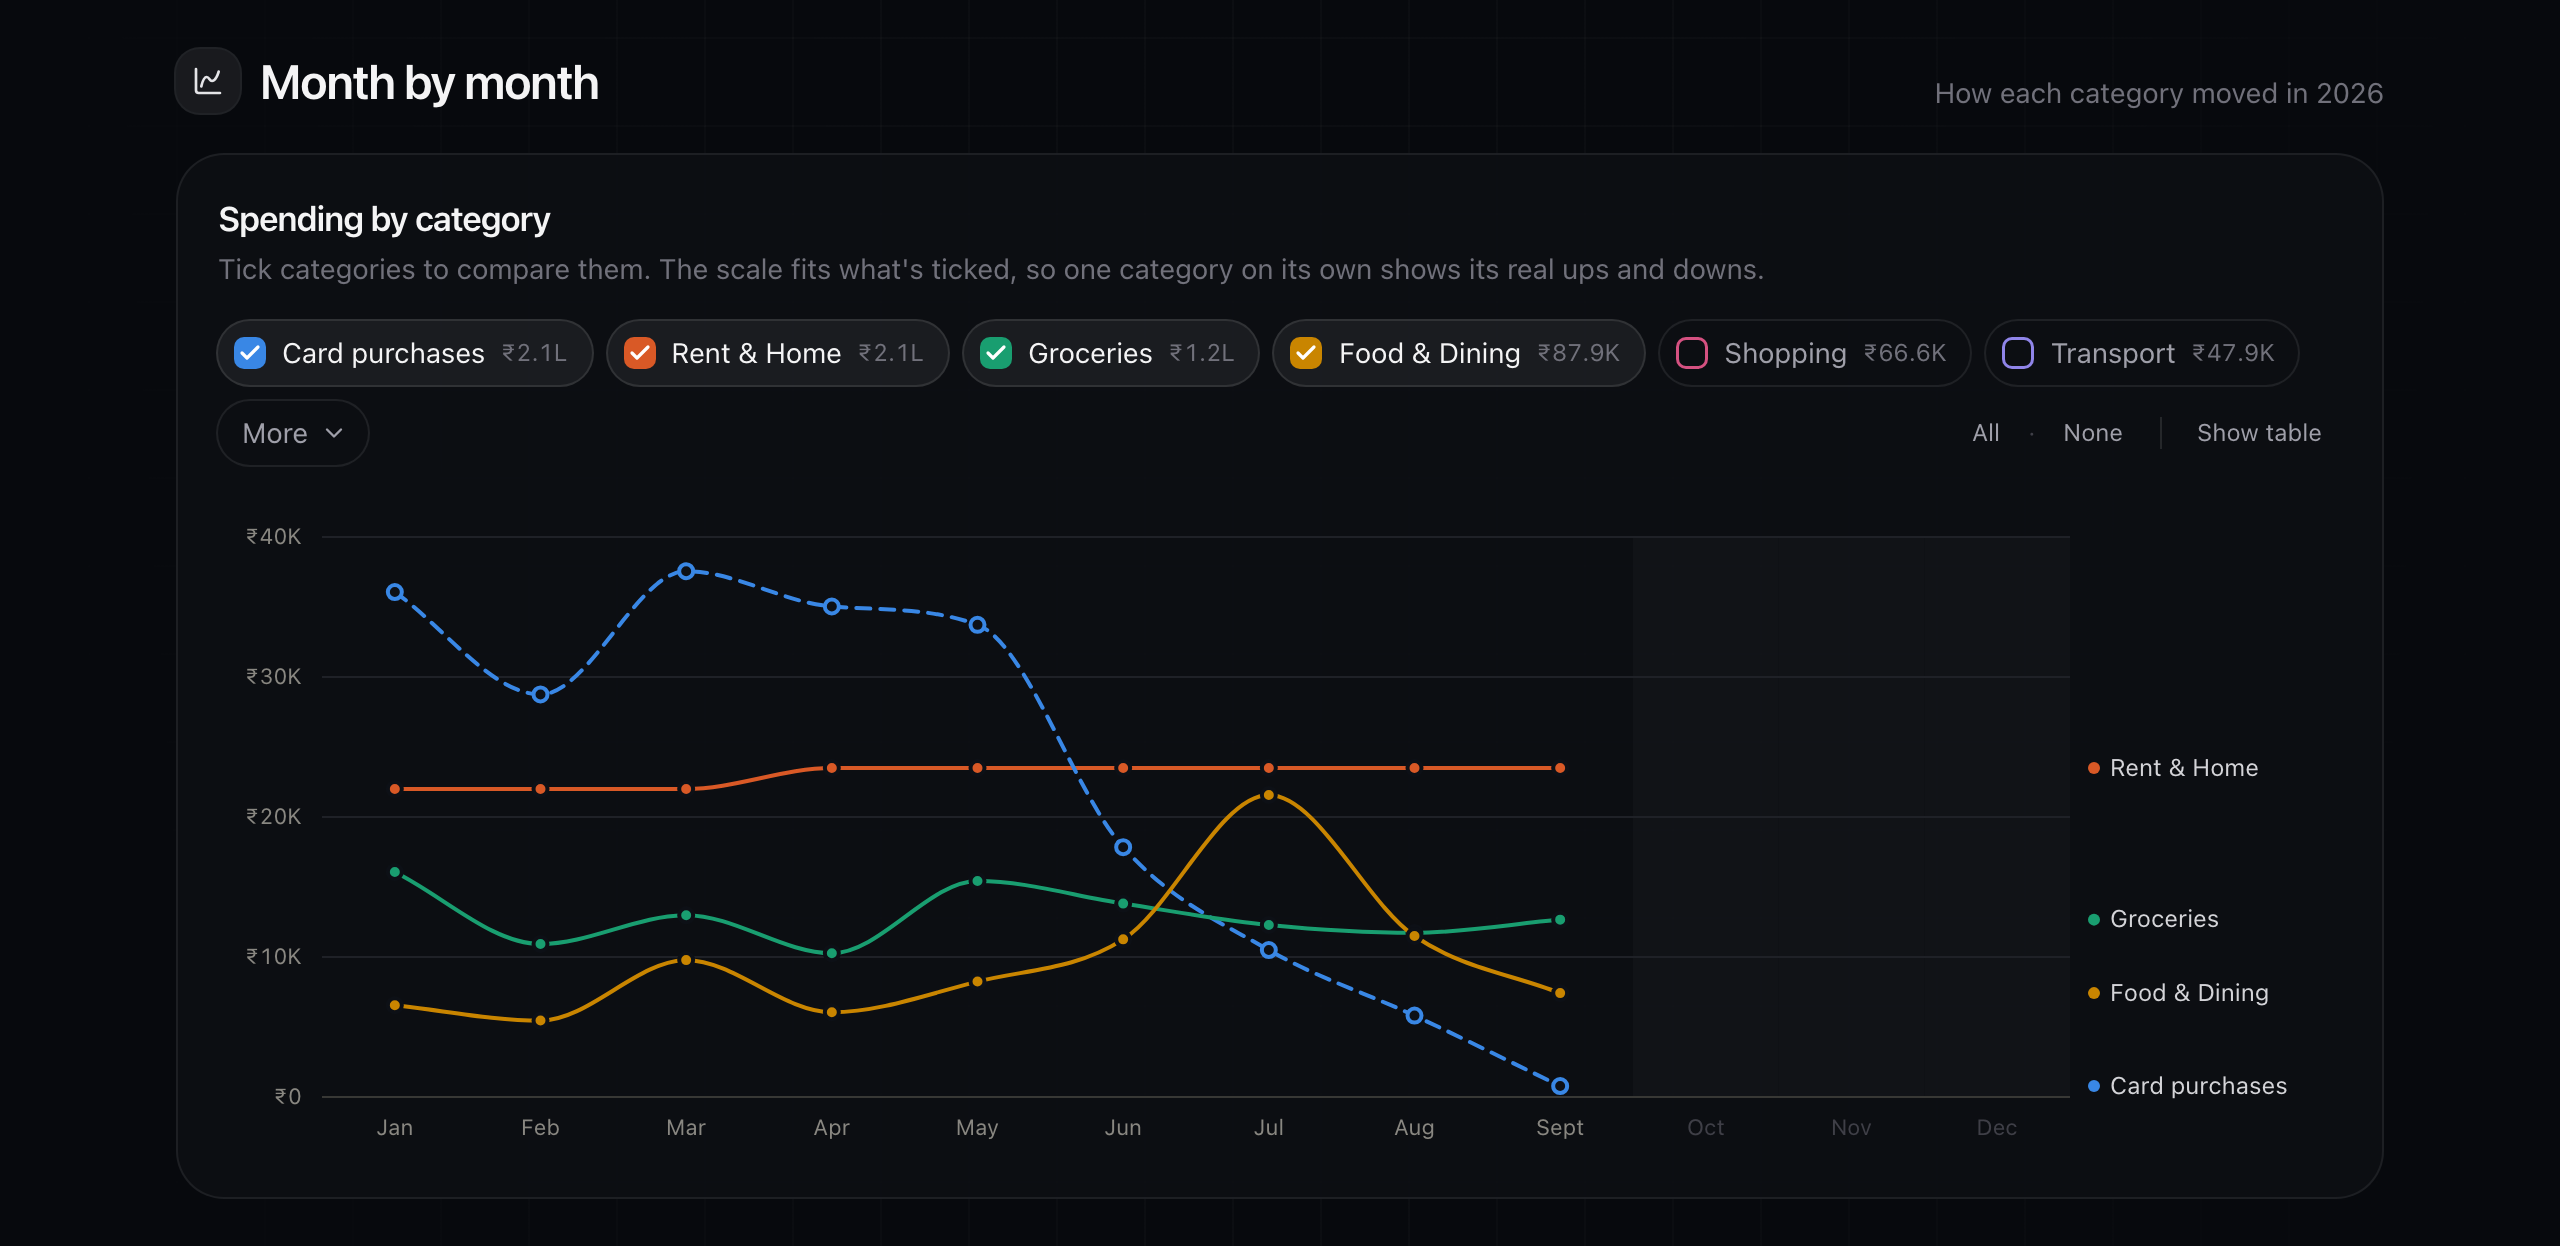
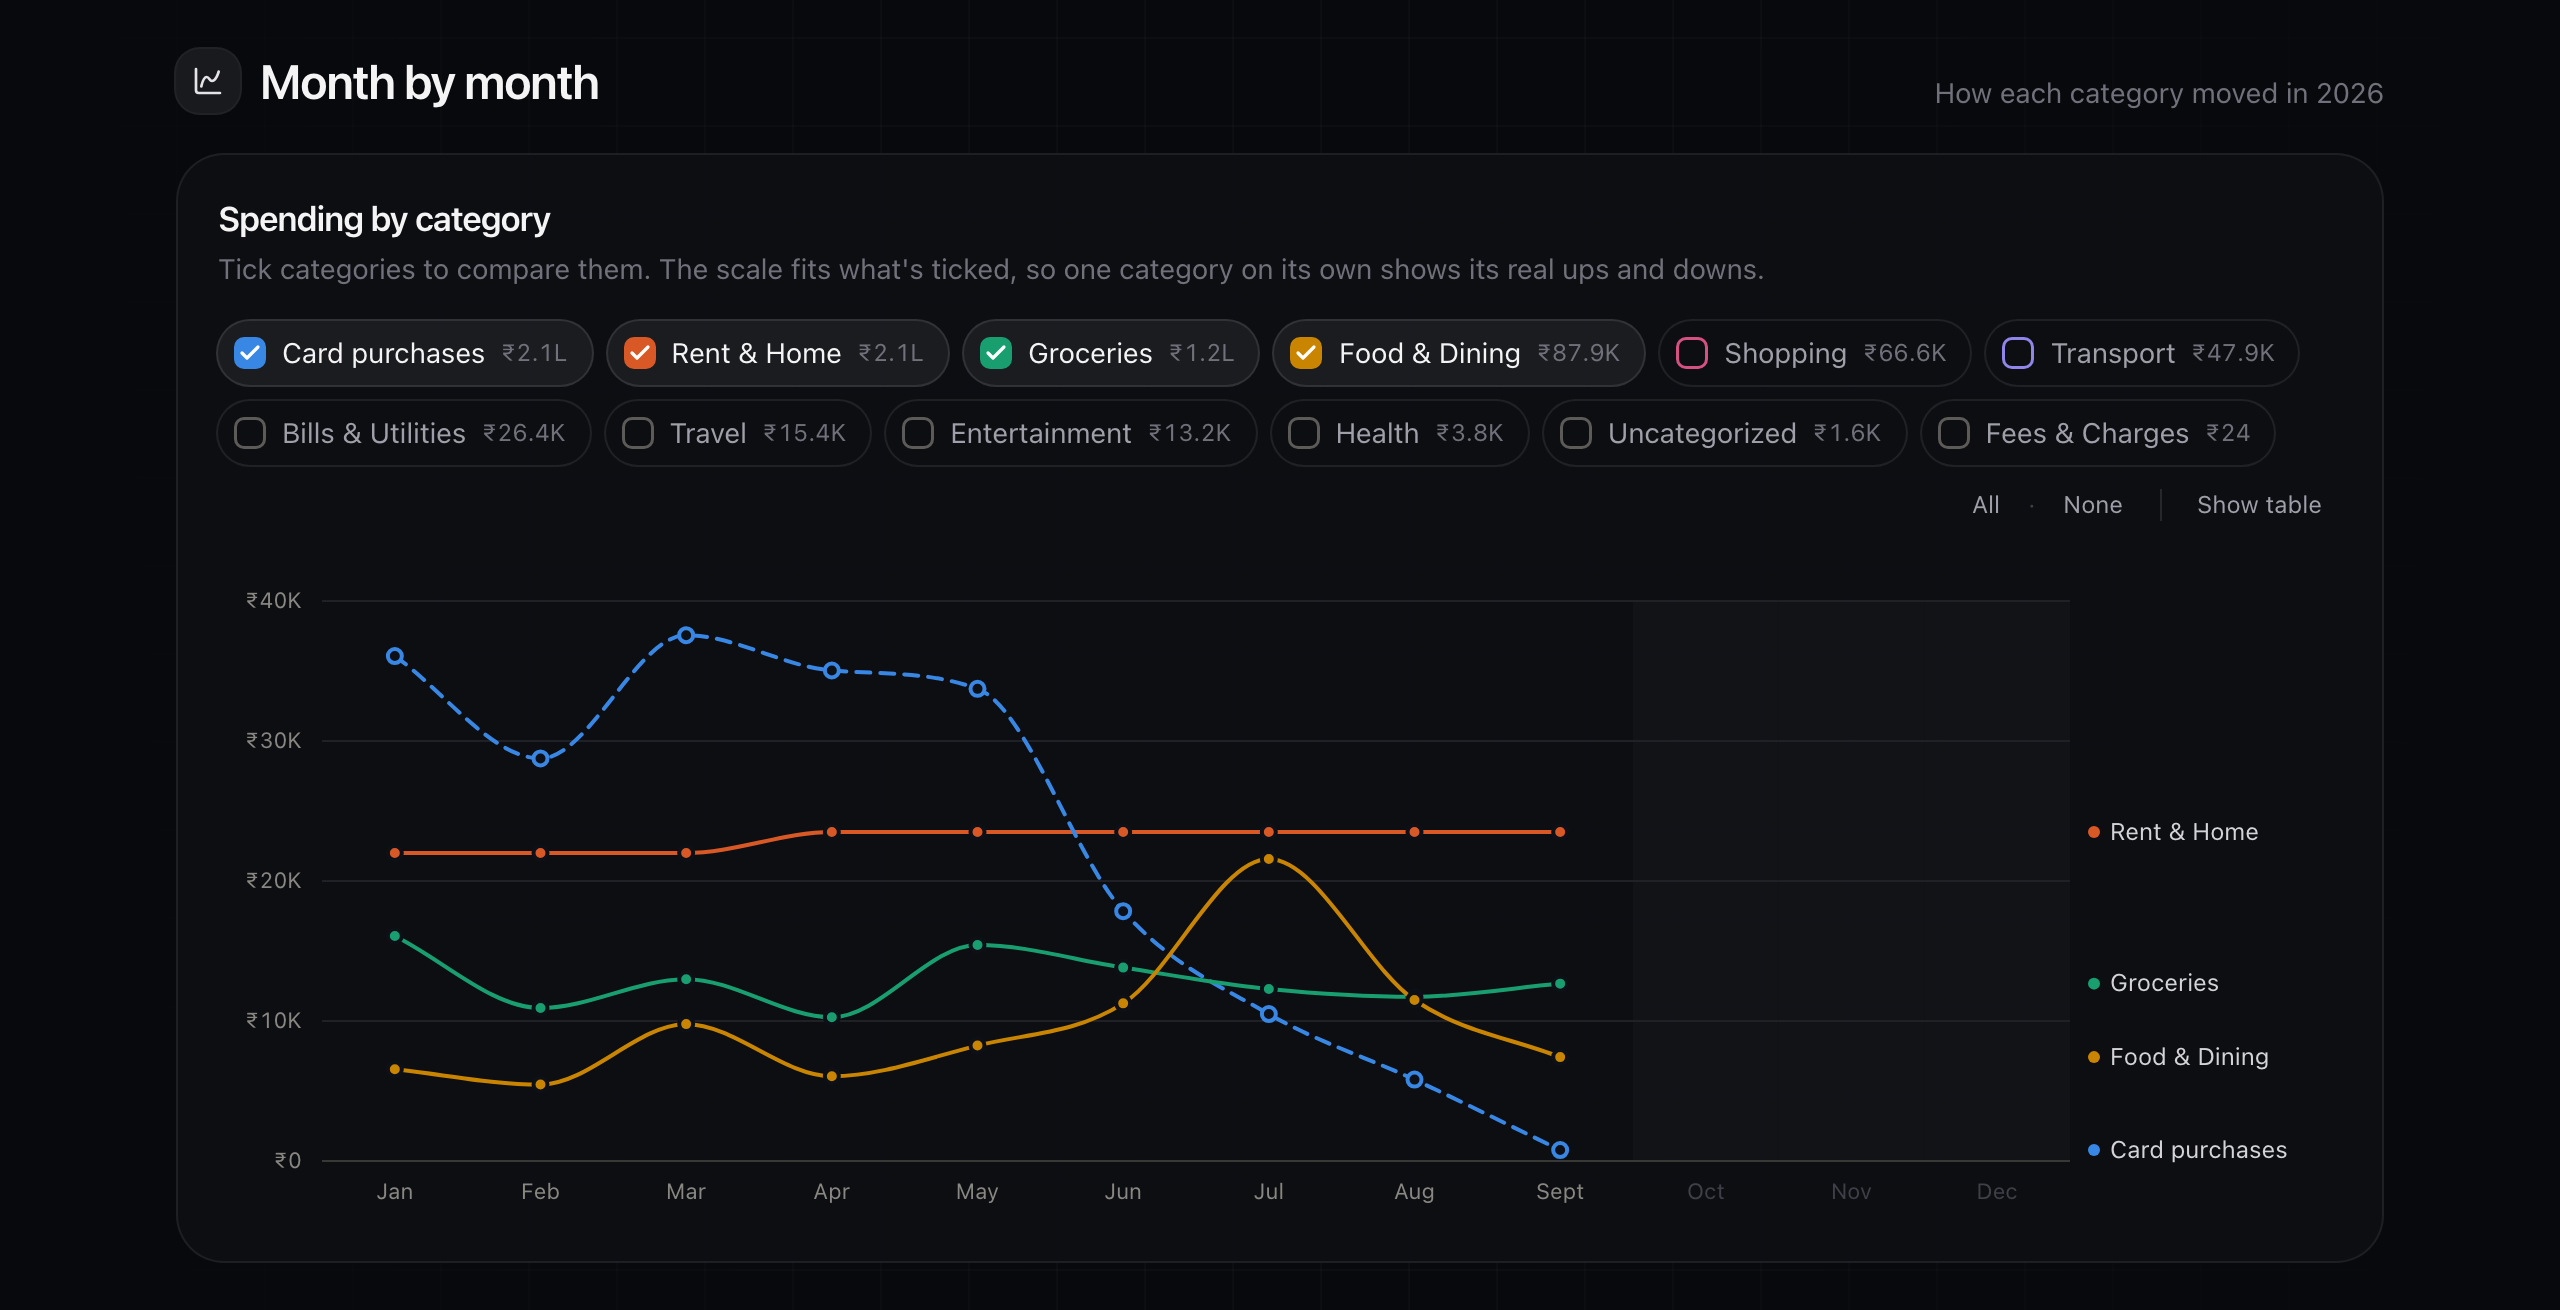
Month by month: every category has its chip, no "More"
The category chips over the month-by-month chart showed only the categories
with a colour of their own; the rest hid in a "More" dropdown. Now every line
has its chip in the row: the coloured ones first, then the grey ones (their
lines' colour, from the caller's colourOf) by how much they hold. The row wraps
when there are many; All, None and Show table stay at its end; Only and the
ticks work the same on every chip. The Credit cards chart, which shares the
component, behaves the same.

Checked in a browser on the demo year: no "More", a chip for each of the 12
categories with spending (matching Where it went), 6 of them grey; ticking
only a grey one draws its grey line; All ticks every chip; the Credit cards
chart keeps its chips. Docs: GUIDE; the README's month-by-month picture.

diff --git a/web/src/components/dash/Trends.tsx b/web/src/components/dash/Trends.tsx
@@ -1,11 +1,11 @@
 import { AnimatePresence, animate, motion, useReducedMotion } from 'motion/react'
-import { Check, ChevronDown } from 'lucide-react'
+import { Check } from 'lucide-react'
 import { useEffect, useLayoutEffect, useMemo, useRef, useState, type KeyboardEvent } from 'react'
 import { fitLabel } from '../../lib/format'
 import { inr, inrCompact } from '../../lib/money'
 import { monthLabel, monthLongLabel } from '../../lib/periods'
 import { niceScale } from '../../lib/scale'
-import { OTHER_COLOUR, type Trend } from '../../lib/totals'
+import type { Trend } from '../../lib/totals'
 
 const TOP = 16
 const AXIS_H = 30
@@ -16,7 +16,8 @@ interface Props {
   series: Trend[]
   /** A line's colour, fixed by its caller from all years, so it's the same whichever year is picked. */
   colourOf: (id: string) => string
-  /** The lines with a colour of their own, in chip order; the rest are under "More", grey. */
+  /** The lines with a colour of their own, in chip order; every other line follows with a chip of its own, grey (its
+   *  line's colour), by how much it holds. */
   main: string[]
   /** A name for a ticked line with nothing in this period (its chip stays, marked "none"). */
   labelOf?: (id: string) => string
@@ -44,7 +45,7 @@ export function Trends({ months, series, colourOf, main, labelOf, storageKey, wh
   const chosen = force ? new Set(force) : ticked
   // chips in colour order (stable when the year changes); ticked lines with nothing this period still show
   const mainChips = main.filter((id) => (byId.has(id) || chosen.has(id)) && (!force || force.includes(id)))
-  const more = series.filter((s) => !main.includes(s.id) && (!force || force.includes(s.id)))
+  const rest = series.filter((s) => !main.includes(s.id) && (!force || force.includes(s.id))).sort((a, b) => b.amount - a.amount)
   const shown = series.filter((s) => chosen.has(s.id))
   const toggle = (id: string) =>
     setTicked((s) => {
@@ -56,8 +57,9 @@ export function Trends({ months, series, colourOf, main, labelOf, storageKey, wh
 
   return (
     <>
+      {/* every line has its chip, the coloured ones first; the row wraps when there are many */}
       <div className="mb-5 flex flex-wrap items-center gap-2">
-        {mainChips.map((id) => (
+        {[...mainChips, ...rest.map((s) => s.id)].map((id) => (
           <Chip
             key={id}
             label={byId.get(id)?.label ?? labelOf?.(id) ?? id}
@@ -72,7 +74,6 @@ export function Trends({ months, series, colourOf, main, labelOf, storageKey, wh
             onFocus={(on) => setFocus(on ? id : null)}
           />
         ))}
-        {more.length > 0 && <More items={more} ticked={chosen} onToggle={toggle} onOnly={(id) => setTicked(new Set([id]))} onFocus={setFocus} />}
         <span className="ml-auto flex items-center gap-1 text-xs">
           {!force && (
             <>
@@ -175,63 +176,6 @@ function Box({ colour, checked }: { colour: string; checked: boolean }) {
         )}
       </AnimatePresence>
     </span>
-  )
-}
-
-/** Lines without a colour of their own: each with its own tick, drawn grey and named at its line's end. */
-function More({ items, ticked, onToggle, onOnly, onFocus }: { items: Trend[]; ticked: Set<string>; onToggle: (id: string) => void; onOnly: (id: string) => void; onFocus: (id: string | null) => void }) {
-  const [open, setOpen] = useState(false)
-  const root = useRef<HTMLDivElement>(null)
-  const count = items.filter((t) => ticked.has(t.id)).length
-  useEffect(() => {
-    if (!open) return
-    const close = (e: PointerEvent) => !root.current?.contains(e.target as Node) && setOpen(false)
-    const esc = (e: globalThis.KeyboardEvent) => e.key === 'Escape' && setOpen(false)
-    window.addEventListener('pointerdown', close)
-    window.addEventListener('keydown', esc)
-    return () => {
-      window.removeEventListener('pointerdown', close)
-      window.removeEventListener('keydown', esc)
-    }
-  }, [open])
-
-  return (
-    <div ref={root} className="relative">
-      <button
-        type="button"
-        onClick={() => setOpen((o) => !o)}
-        aria-expanded={open}
-        className={`inline-flex items-center gap-1.5 rounded-full py-1.5 pr-2.5 pl-3 text-sm ring-1 transition ${count ? 'bg-white/[0.06] text-zinc-100 ring-white/15' : 'text-zinc-400 ring-white/[0.08] hover:ring-white/20'}`}
-      >
-        More
-        {count > 0 && <span className="rounded-full bg-white/15 px-1.5 text-[11px] tabular-nums">{count}</span>}
-        <ChevronDown className={`size-3.5 transition-transform ${open ? 'rotate-180' : ''}`} />
-      </button>
-      <AnimatePresence>
-        {open && (
-          <motion.ul
-            initial={{ opacity: 0, y: -4, scale: 0.98 }}
-            animate={{ opacity: 1, y: 0, scale: 1 }}
-            exit={{ opacity: 0, y: -4, scale: 0.98 }}
-            transition={{ duration: 0.15 }}
-            className="absolute top-full left-0 z-30 mt-2 max-h-80 w-64 origin-top-left overflow-y-auto rounded-2xl border border-white/10 bg-panel/95 p-1.5 shadow-2xl shadow-black/60 backdrop-blur-xl"
-          >
-            {items.map((t) => (
-              <li key={t.id} onPointerEnter={() => onFocus(t.id)} onPointerLeave={() => onFocus(null)} className="group flex items-center rounded-xl hover:bg-white/[0.05]">
-                <button type="button" role="checkbox" aria-checked={ticked.has(t.id)} onClick={() => onToggle(t.id)} className="flex flex-1 items-center gap-2.5 px-2.5 py-2 text-left text-sm">
-                  <Box colour={OTHER_COLOUR} checked={ticked.has(t.id)} />
-                  <span className={`flex-1 truncate ${ticked.has(t.id) ? 'text-zinc-100' : 'text-zinc-300'}`}>{t.label}</span>
-                  <span className="text-xs text-zinc-500 tabular-nums group-hover:hidden">{inrCompact(t.amount)}</span>
-                </button>
-                <button type="button" onClick={() => onOnly(t.id)} className="mr-2 hidden rounded-full bg-white/10 px-2 py-0.5 text-[11px] font-medium text-zinc-100 group-hover:block hover:bg-white/20">
-                  Only
-                </button>
-              </li>
-            ))}
-          </motion.ul>
-        )}
-      </AnimatePresence>
-    </div>
   )
 }
 

diff --git a/docs/GUIDE.md b/docs/GUIDE.md
@@ -133,7 +133,9 @@ The line under the sum says which parts are in it. The ring gives the six bigges
 draw; the scale fits what's ticked, so one category on its own shows its real ups and downs. Your ticks are
 remembered. Card purchases is dashed: it's estimated, spread over the billing cycles the bills paid for. A month no
 file covers is a gap, not ₹0. Seven categories have colours (the ring's six plus violet); others are grey and named at
-their line's end, since lines can cross anywhere and more colours would be too close to tell apart.
+their line's end, since lines can cross anywhere and more colours would be too close to tell apart. Every category
+with spending has its chip, the coloured ones first, then the grey ones by how much they hold; the row wraps when
+there are many, and **Only** on a chip shows that one alone.
 
 - **Spent**: payments for things and services, minus what was refunded (below).
 - **Sent to people**: UPI to individuals. Label a person once (e.g. "Water delivery") and they move into spending.
